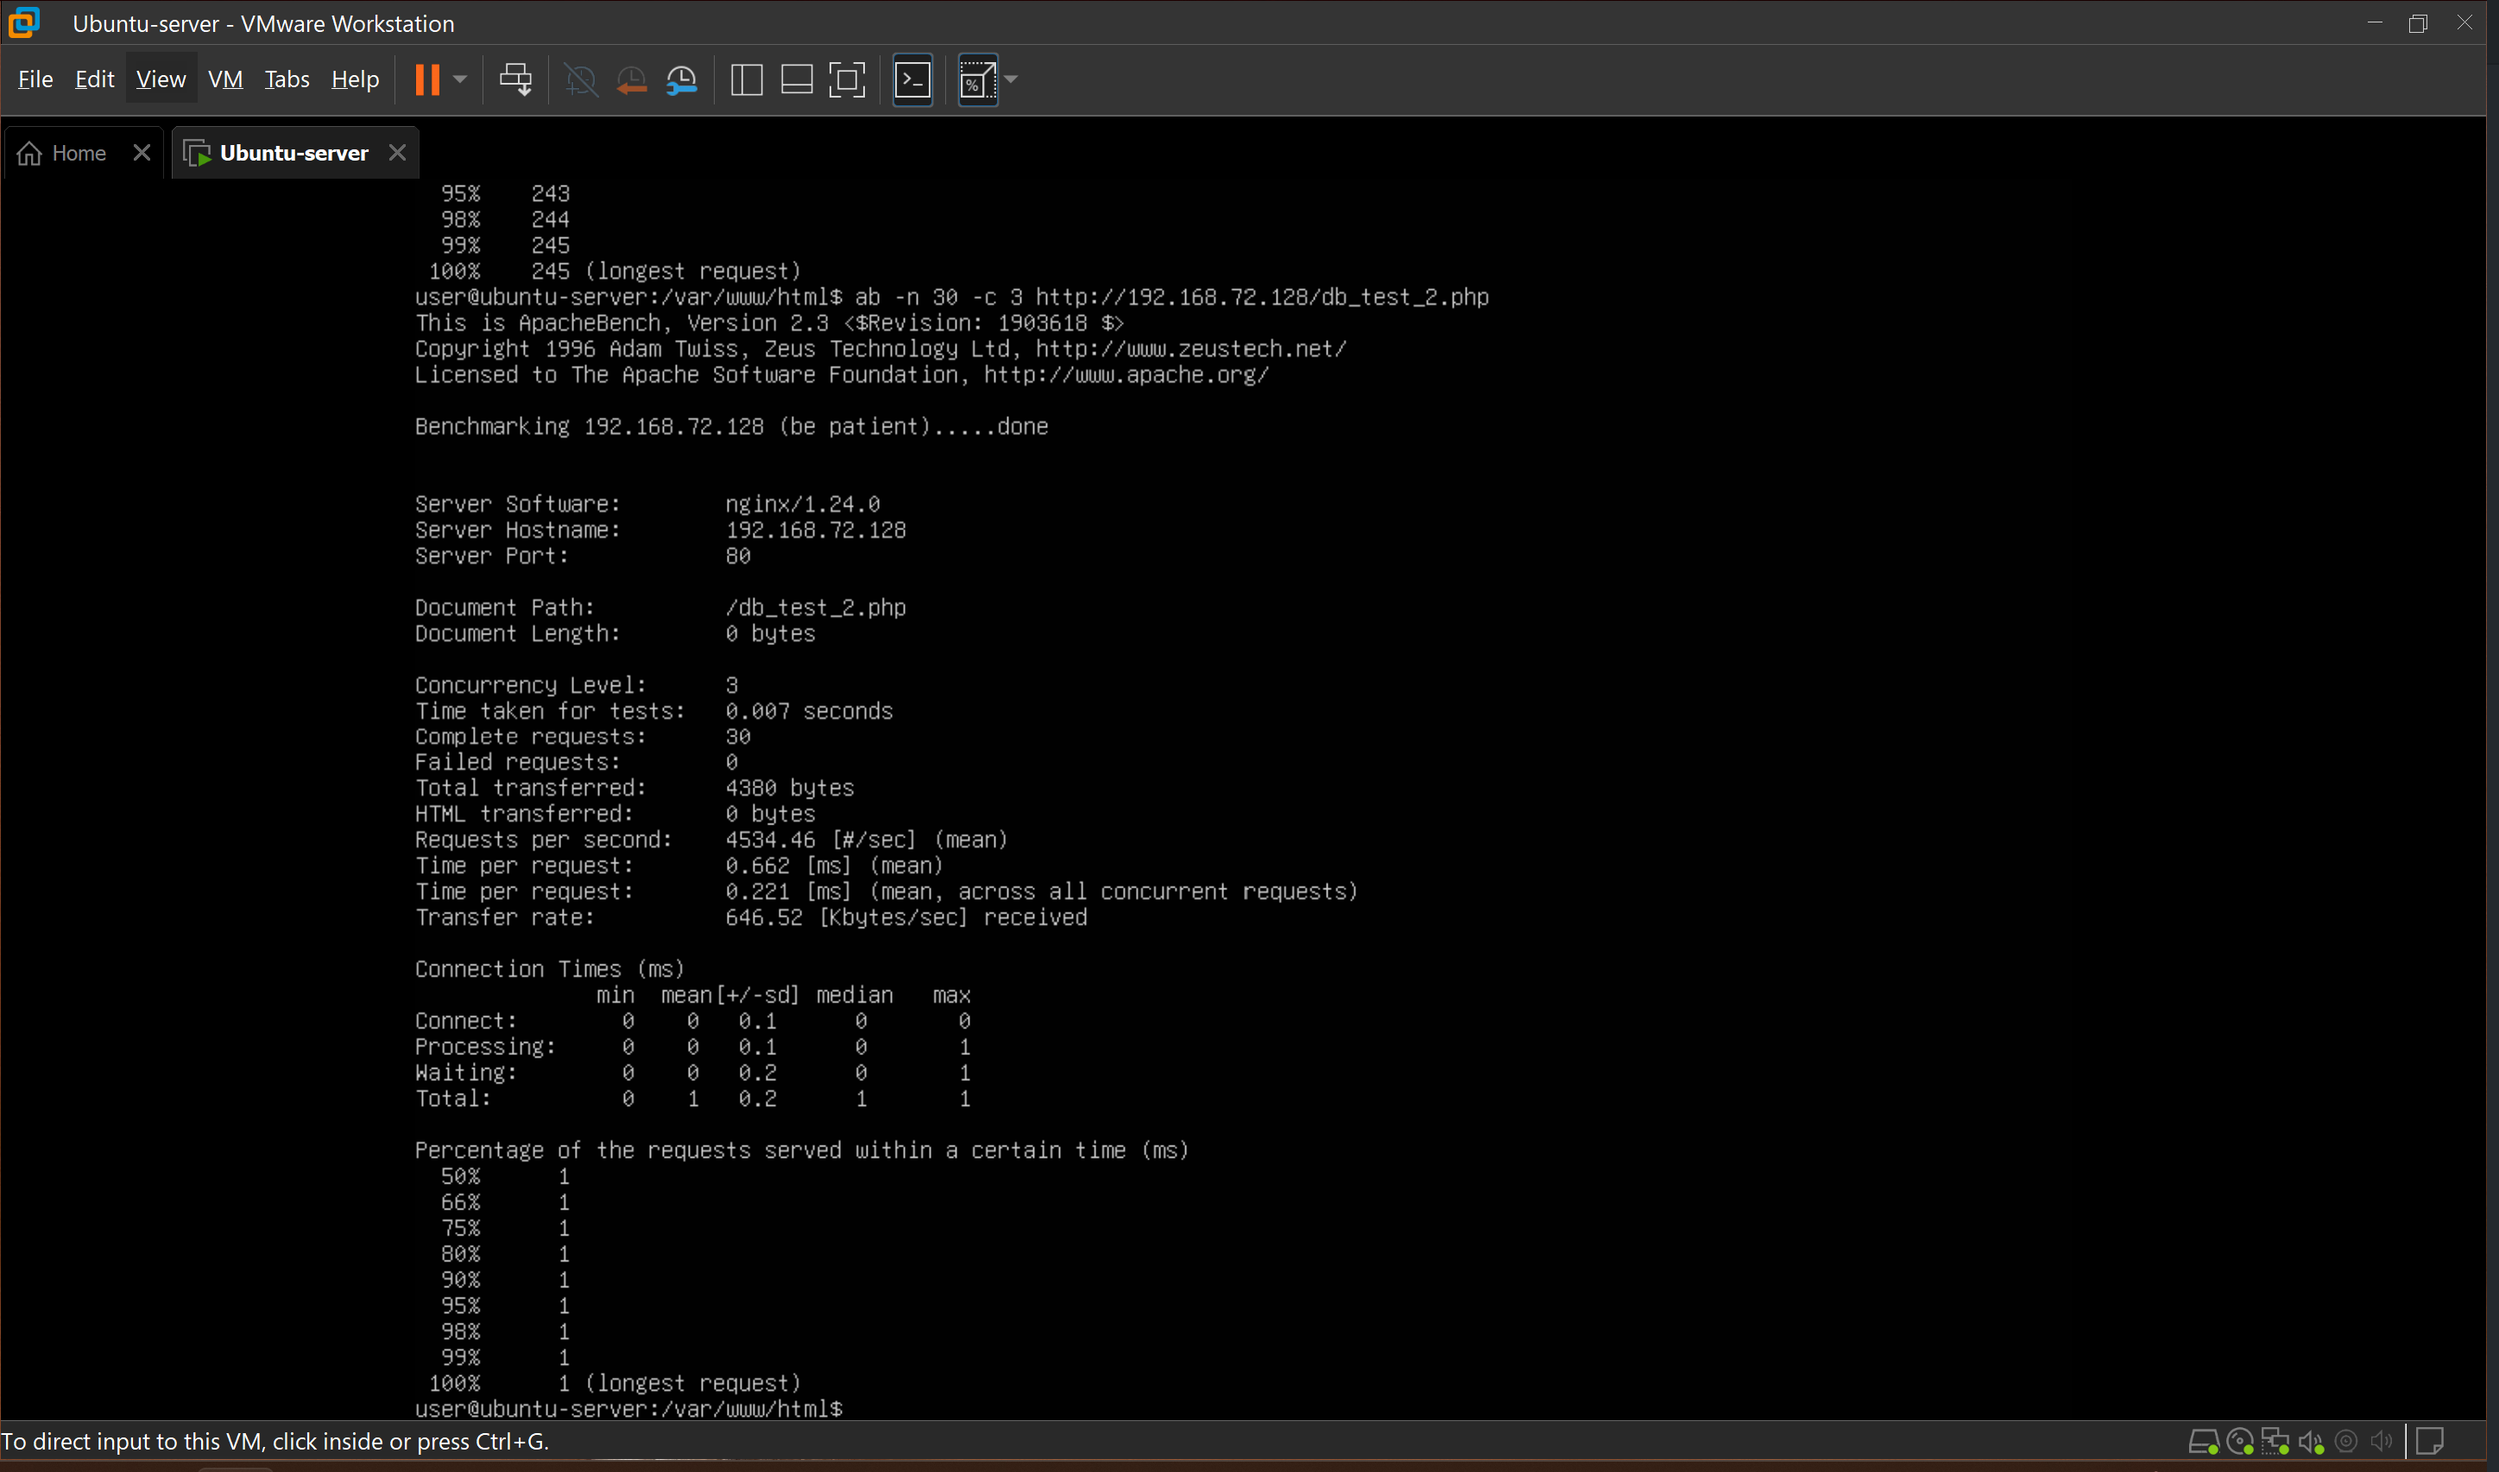
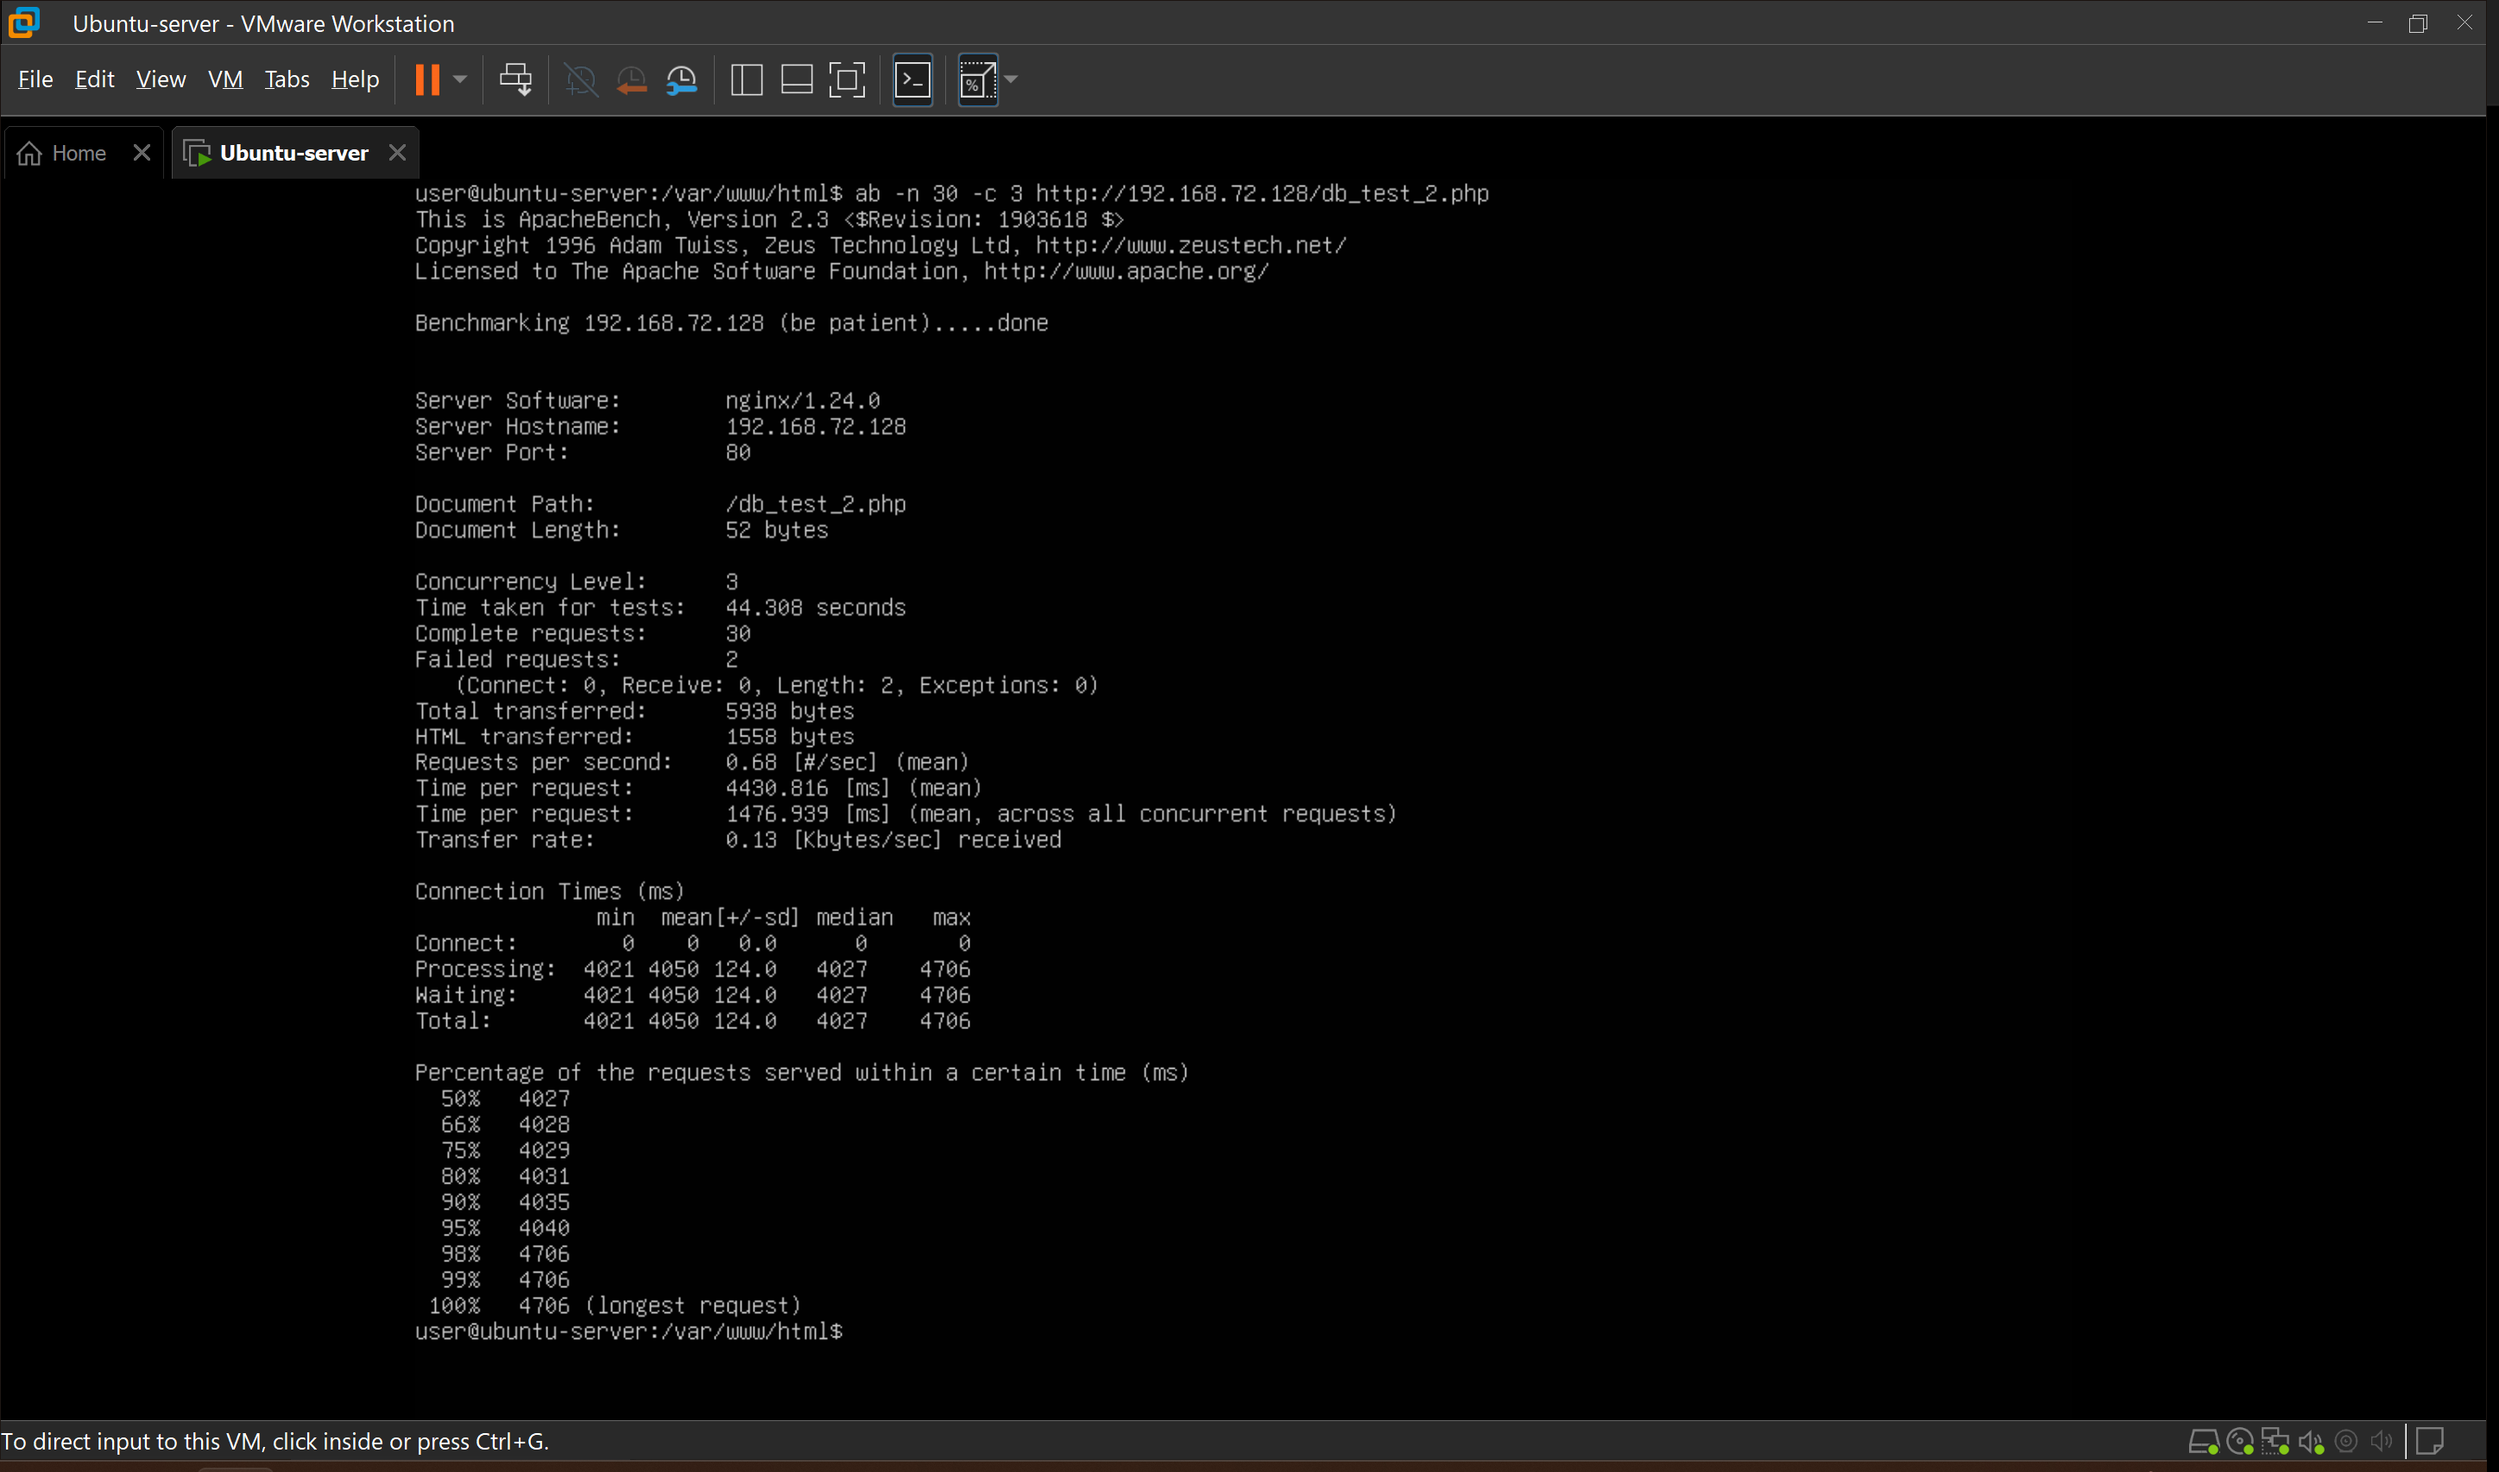
04_Performance_test_complete

Changed region(s): [[0.1554, 0.1243, 0.5907, 0.9636], [0.9948, 0.0622, 1.0, 1.0], [0.2798, 0.3419, 0.3731, 0.373]]

diff --git a/04_Performance_test/README.md b/04_Performance_test/README.md
@@ -159,3 +159,15 @@
   3번 Percentile 부분에서 정적 페이지의 경우 특별히 튀는 구간 없이 전체적으로 지연이 일어났지만 CPU 부하페이지에서는 비록 심한 과부하 이전이지만 90% 이상 부터 갑자기 지연이 심해짐을 확인 할수 있었습니다. 이처럼 뒷부분이 심하게 느려지는 현상을 Tail latency라 하는데 Tail latency의 원인은 실제 자동차 교통 체증의 "유령체증"과 비슷합니다. 앞 부분에서 미세하게 정체가 일어날 경우 그에 반응한 뒷차의 미세한 반응이 추가되고 누적되어 가장 끝에 있는 차량은 젤 처음 정체를 일으킨 차랑의 지체 시간에 비해 몇배의 정체가 생기는 현상입니다. CPU 과부하 페이지의 경우 CPU의 계산을 강제하는 페이지이기 때문에 정적 페이지에 비해 CPU의 계산이 반드시 필요하고, 그 계산은 캐시 미스, branch misprediction, 스케줄링 등으로 결과가 나오기 까지의 시간이 매번 같을 수가 없습니다. 그로 인해 미세하게 들쭉 날쭉한 시간이 걸리게 되고 이는 곧 자동차 교통체증인 "유령체증"과 같이 뒷부분이 느려지게 되는 결과를 가져옵니다.<br><br>
 - 결론: Static 페이지와 CPU 연산 페이지 모두 과부하 시 RPS 정체와 latency 증가라는 공통된 현상을 보였으나, Static 페이지는 단순 큐잉에 의해 느려졌을 뿐 안정적으로 처리된 반면, CPU 연산 페이지는 요청 당 CPU 점유로 인해 처리 지연과 실패가 발생했습니다. 특히 CPU 페이지에서는 Waiting과 Processing 시간이 거의 동일하고, p90 이상의 Tail latency가 증가하여 내부 연산 병목이 발생했음을 확인할 수 있었습니다.
   
+3) PHP+DB 부하 페이지
+- 위의 CPU 부하 페이지와의 차이점을 중심으로 확인 해보겠습니다.
+  1. 과부하 발생 후 Requests per second가 크게 늘었습니다.
+  2. Percentile 부분에서 Tail latency가 CPU에서는 특정 구간에서 크게 튀었지만 DB부하 시에는 전체적으로 느려졌습니다.
+   
+- 위의 2가지 차이점은 CPU 부하 시 와는 다른 특성을 보여줍니다.<br> 
+  1번 Requests per second가 CPU 부하때는 크게 늘지 않았는데 DB부하 시에는 크게 늘은 이유는 DB가 병목일 때는 DB쿼리만 막히고 PHP,Nginx 등 DB보다 앞단의 서버들은 여유가 있기 때문에 생긴 증상으로 추정 됩니다. 갑자기 늘어는 RPS는 CPU연산 하고는 관계가 없겠구나 하고 DB쪽을 장애의 원인으로 추정할 근거가 됩니다.<br><br>
+  2번 Percentile 부분의 Tail latency 역시 마찬가지 입니다. CPU의 경우 연산의 결과가 매번 일정한 시간에 나오지 않기 때문에 Tail latency가 튀는 구간이 보였지만 DB과부하는 CPU 연산이 필요 없이 일정하게 지연만 걸었기 때문에 모두가 줄서서 기다리는 상황으로 보이고 특정 구간에 특이점 없이 전체적으로 느려진 것으로 보입니다.<br><br>
+- 결론: Apache Bench 결과만으로는 CPU 병목과 DB 병목의 수치적 결과가 상당 부분 유사하게 나타났습니다.
+이는 AB가 병목의 원인을 구분하기보다는, 요청 지연과 Queueing이라는 결과를 중심으로 측정하기 때문입니다.
+다만 DB 병목의 경우 초당 처리량(RPS)이 크게 증가하고, 전체 지연 분포가 균등하게 상승하는 특징을 보였습니다.
+

diff --git a/README.md b/README.md
@@ -7,8 +7,8 @@
 1. [서버 인수인계 (서버의 현재상태 확인)](01_Server_handover/README.md)
 2. [서버 보안 강화](02_Secure_enhancement/README.md)
 3. [로그 분석, 장애상황재현, 원인 분석](03_Log_Analysis/README.md)
-4. [성능테스트, 병목분석 (진행중)](04_Performance_test/README.md)
-5. 자동화 스크립트 고도화
+4. [성능테스트, 병목분석](04_Performance_test/README.md)
+5. [자동화 스크립트 고도화 (진행중)](05_Auto_script/README.md) 
 
 ### 실습환경
 

diff --git a/05_Auto_script/README.md b/05_Auto_script/README.md
@@ -1,0 +1,11 @@
+## 자동화 스크립트 고도화
+(아래 내용의 코드블럭 안은 Linux 명령어 or PowerShell 명령어 입니다.)<br>
+### 학습 목표: 지금까지 수동으로 했던 모든 것(설치/설정/테스트/분석 등)을 자동화 합니다.
+
+### 1. 원클릭 프로비저닝
+### 2. 환경변수/설정 템플릿화
+### 3. 부하테스트 자동 실행
+### 4. 로그•성능 지표 자동수집
+### 5. 리포트 자동 생성
+
+<br>
